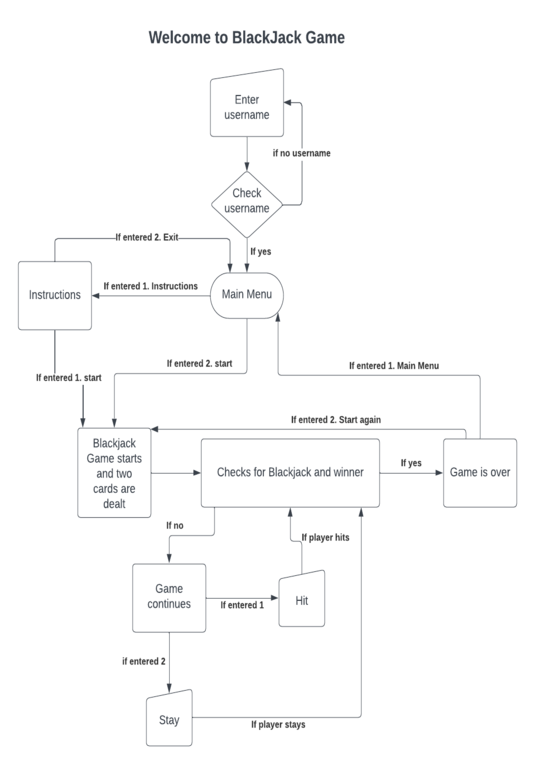
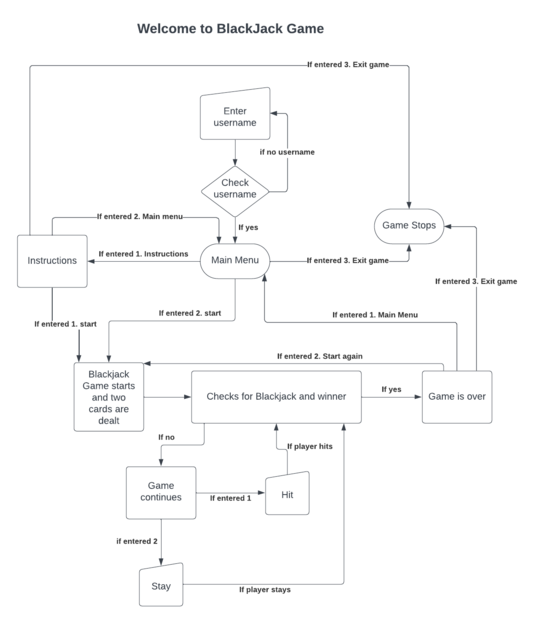
add updated diagram and updated comments

diff --git a/run.py b/run.py
@@ -13,7 +13,7 @@ https://www.youtube.com/watch?v=mpL0Y01v6tY&ab_channel=CodeCoach
 https://www.youtube.com/watch?v=aryte85bt_M&t=140s&ab_channel=Beau%28previouslyZizyo%29
 The next video to help me with the game rules:
 https://www.youtube.com/watch?v=eyoh-Ku9TCI&ab_channel=wikiHow
-To import colorana:
+To import colorama:
 https://www.youtube.com/watch?v=u51Zjlnui4Y&ab_channel=TechWithTim
 '''
 
@@ -24,7 +24,7 @@ USERNAME = ""
 def clean():
     '''
     This function when called will clear screen
-    This is to improve User experience
+    This is to improve user experience
     '''
     os.system("clear")
 
@@ -33,7 +33,7 @@ def instructions():
     '''
     This function will open instructions
     User will find the instructions and be able to understand the game
-    There are two options Start/Exit
+    There are three options Start/Main Menu/Exit Game
     I have used Try/except to check if a number has been entered or not
     '''
     clean()
@@ -114,7 +114,7 @@ class cardsDeck:
             {"rank": "A", "value": 11},
         ]
 
-        ''' Append cardSuits and cardRanks onto cards list 'cards = []' '''
+        ''' Append cardSelected(cardSuits and cardRanks) onto cards list 'cards = []' '''
         for cardSuit in cardSuits:
             for cardRank in cardRanks:
                 self.cards.append(cardSelected(cardSuit, cardRank))
@@ -147,6 +147,10 @@ class cardsDeck:
 
 class handCard:
     def __init__(self, cardDealer=False):
+        '''
+        Empty cards list, value at start is set to 0
+        Default value of cardDealer is set to False
+        '''
         self.cards = []
         self.value = 0
         self.cardDealer = cardDealer
@@ -191,7 +195,10 @@ class handCard:
         return self.displayValue() == 21
 
     def display(self, displayDealersHiddenCard=False):
-        ''' Function to display the cards and their total value '''
+        '''
+        Function to display the cards and their total value
+        displayDealersHiddenCard set to False by default until the game is over
+        '''
         if self.cardDealer is True:
             ''' If is cardDealer, it will print this '''
             print(f'{"  Dealer cards are:"}')
@@ -200,12 +207,15 @@ class handCard:
             print(f'  {USERNAME} your cards are:')
         ''' Will print each card called '''
         for index, card in enumerate(self.cards):
+            '''
+            If the game isn't over, 
+            the second card from the cardDealer will be hidden
+            '''
             if index == 1 and self.cardDealer and not\
                  displayDealersHiddenCard and not self.blackJack():
                 print("      🂠")
             else:
                 print(card)
-        ''' Checks if isn't the cardDealer '''
         if not self.cardDealer:
             print("  Total value of:", self.displayValue())
 
@@ -219,8 +229,8 @@ class blackJackGame:
         The game will start with two cards dealt
         If there is no blackjack at the beginning,
         the user will be able to decide whether to hit or stay
-        At the end the user will be able to decide if wants to play again
-        or go back to main menu
+        At the end the user will be able to decide if wants to play again,
+        go back to main menu or exit game
         '''
         clean()
         print("*" * 80)
@@ -327,7 +337,8 @@ class blackJackGame:
 
     def winnerCheck(self, cardDealerHand, userHand, gameOver=False):
         '''
-        This function will check for winner, whether is the cardDealer
+        This function will run through an if/else statement and 
+        will check for winner, whether is the cardDealer
         or the user, if there is a draw, blackjack and if someone has bust
         '''
         if not gameOver:
@@ -367,8 +378,8 @@ class blackJackGame:
 
 def mainMenu():
     '''
-    Main Menu function where you will be able to select Instructions
-    Or start the game
+    Main Menu function where you will be able to select Instructions,
+    Start the game or Exit game
     While loop to loop through the try/except and if statements
     '''
     clean()
